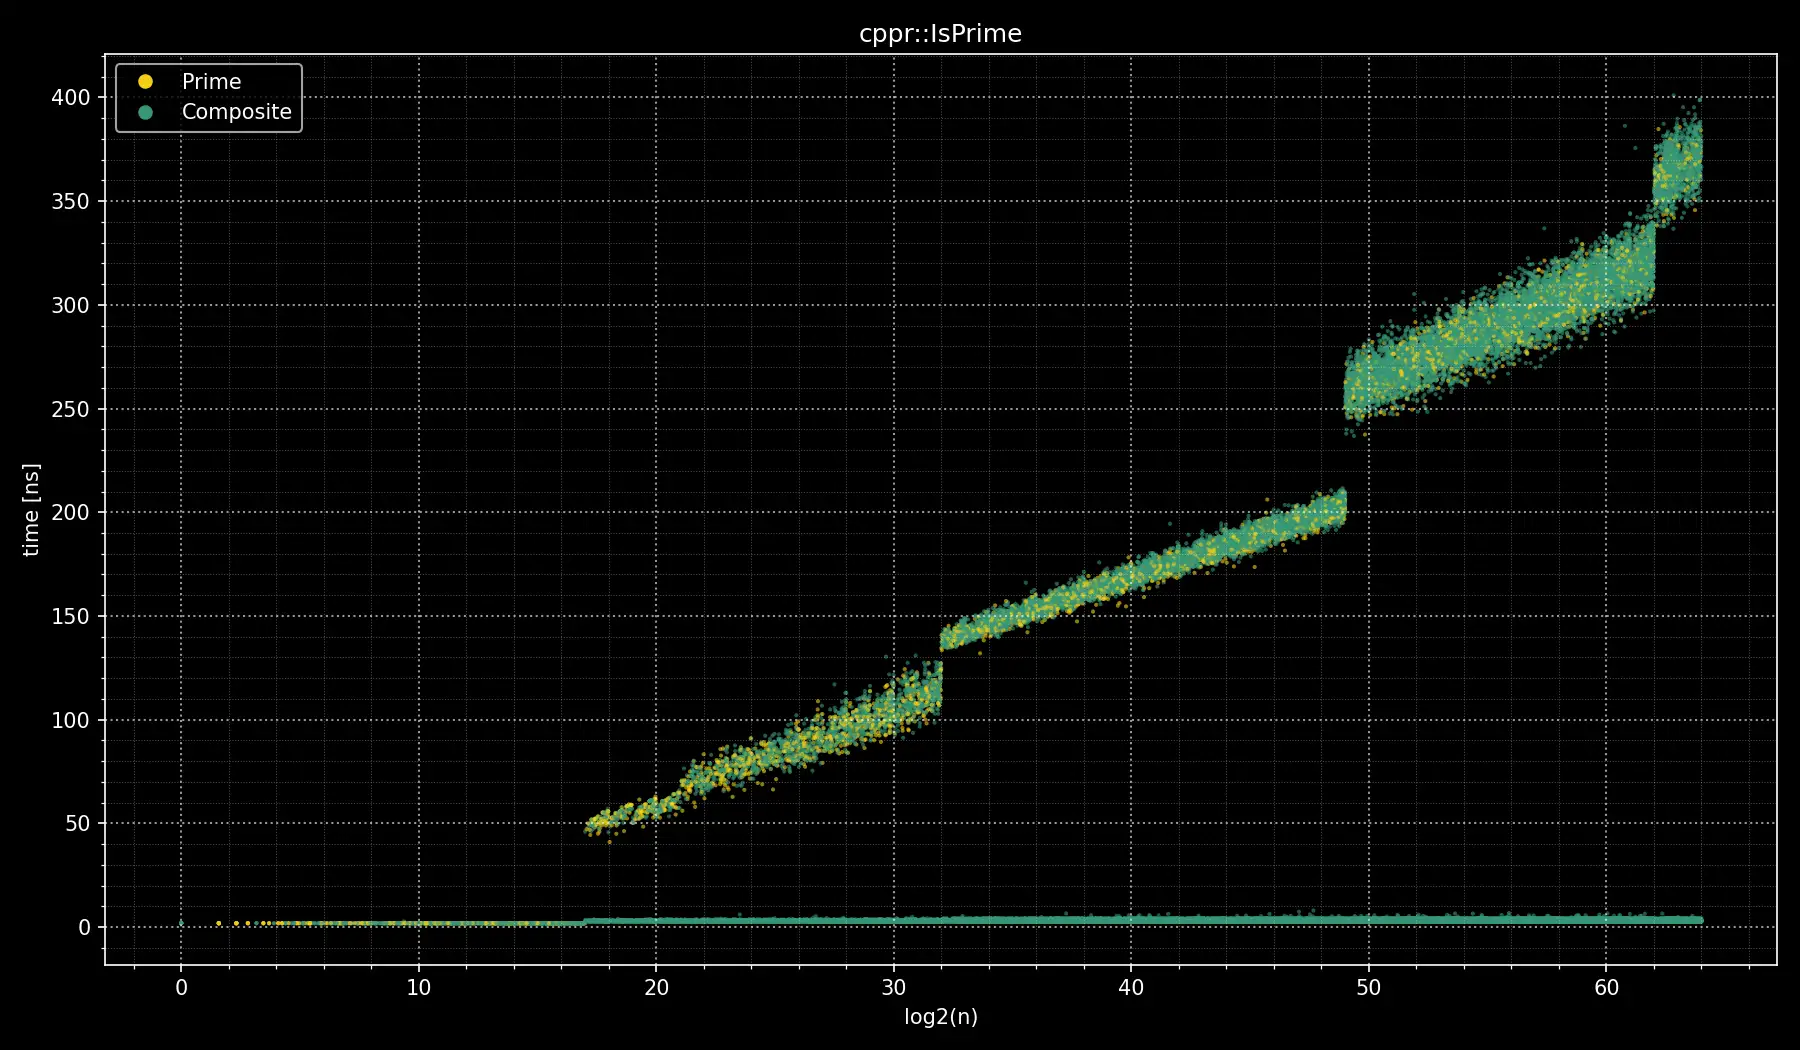
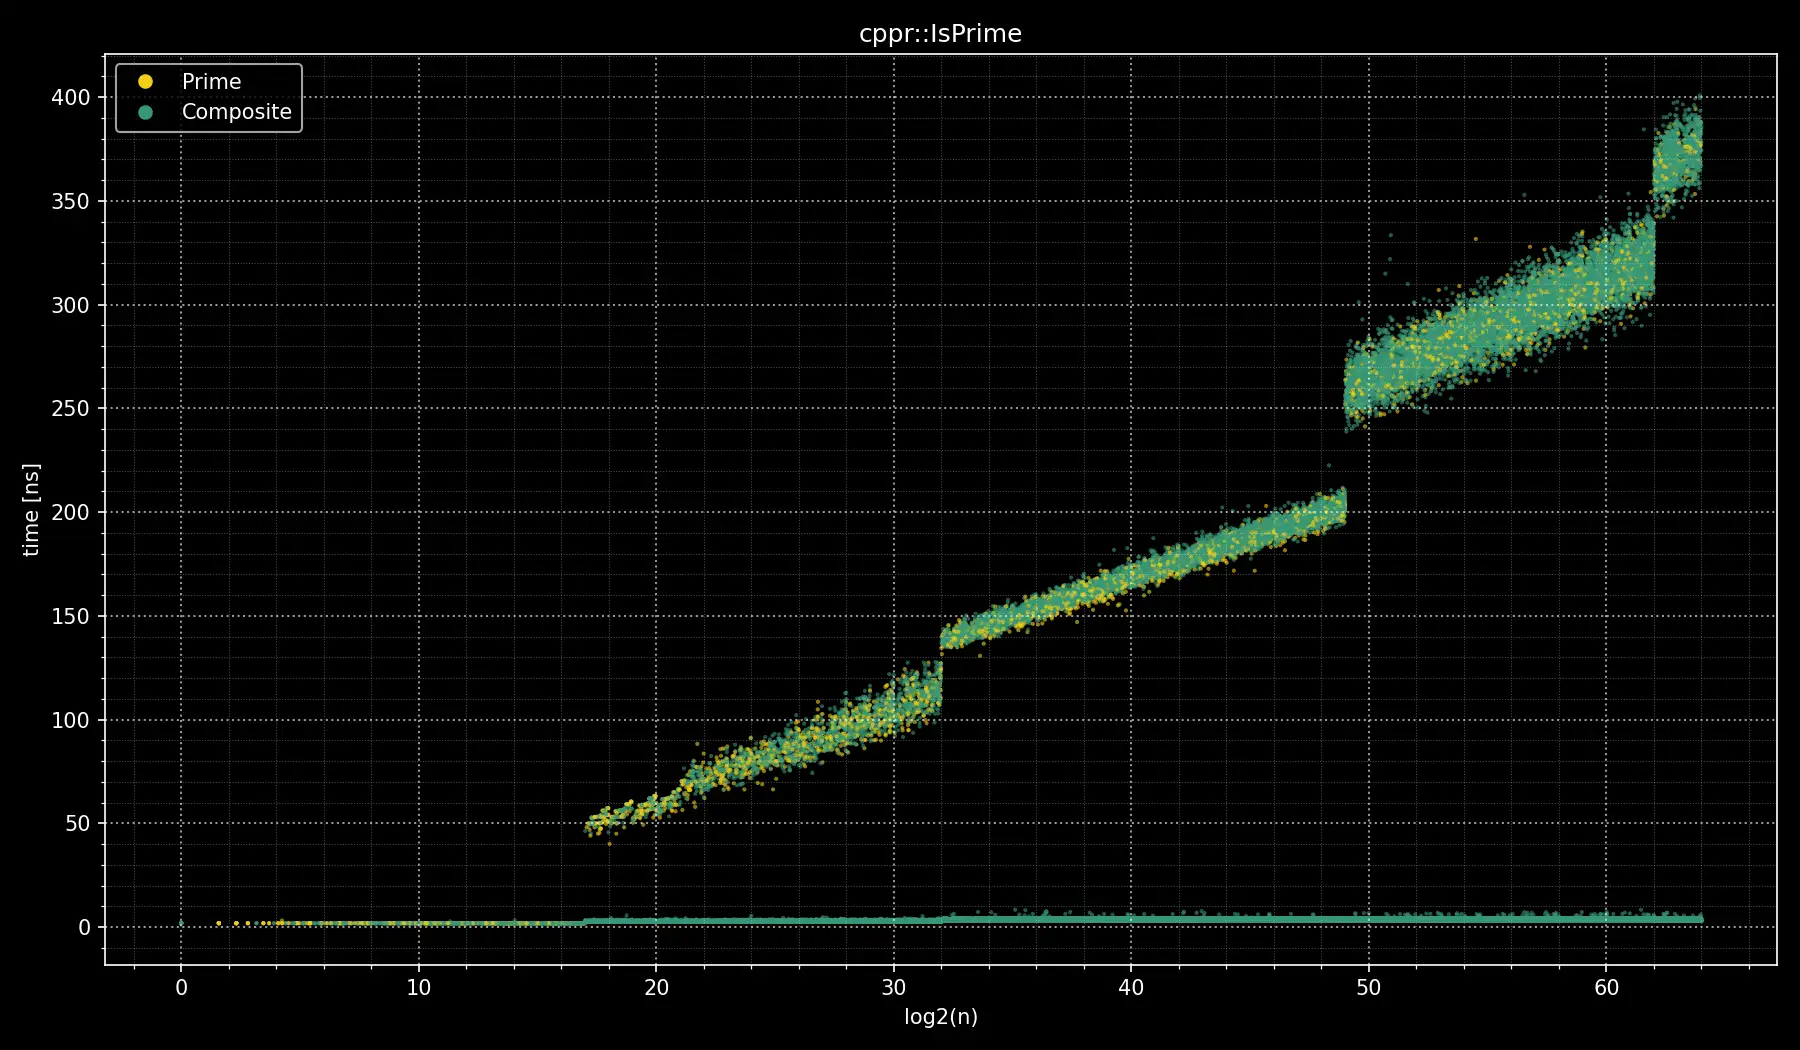
chore(bench): publish run 36736206774 ee572904996a7d12ae93e95133117158b0132455

diff --git a/benchmarks/latest/benchmark-Windows-clang-cl/bench_summary.md b/benchmarks/latest/benchmark-Windows-clang-cl/bench_summary.md
@@ -2,19 +2,19 @@
 
 ## Overall summary
 
-- IsPrime averages 163.71 ns on prime inputs and 54.06 ns on composite inputs.
-- IsPrimeNoTable averages 289.90 ns on prime inputs and 49.44 ns on composite inputs.
+- IsPrime averages 148.49 ns on prime inputs and 49.46 ns on composite inputs.
+- IsPrimeCompact averages 256.06 ns on prime inputs and 47.71 ns on composite inputs.
 
 ## Averages by 8-bit range (nanoseconds)
 
-| Bit range | IsPrime (prime) | IsPrimeNoTable (prime) | IsPrime (composite) | IsPrimeNoTable (composite) |
+| Bit range | IsPrime (prime) | IsPrimeCompact (prime) | IsPrime (composite) | IsPrimeCompact (composite) |
 |-----------|-----------------|------------------------|---------------------|----------------------------|
-| 1-8 | 3.12 | 3.00 | 3.00 | 3.01 |
-| 9-16 | 3.01 | 21.01 | 3.03 | 4.92 |
-| 17-24 | 63.19 | 69.69 | 16.01 | 17.44 |
-| 25-32 | 109.64 | 109.79 | 30.03 | 29.74 |
-| 33-40 | 187.17 | 280.92 | 58.91 | 74.96 |
-| 41-48 | 224.73 | 475.68 | 72.96 | 78.99 |
-| 49-56 | 321.53 | 601.46 | 107.39 | 86.27 |
-| 57-62 | 370.82 | 687.34 | 126.20 | 84.49 |
-| 63-64 | 396.42 | 824.96 | 134.91 | 100.93 |
+| 1-8 | 3.20 | 2.04 | 3.27 | 2.18 |
+| 9-16 | 3.25 | 20.42 | 3.20 | 4.30 |
+| 17-24 | 57.55 | 62.26 | 14.91 | 15.52 |
+| 25-32 | 99.37 | 99.21 | 27.60 | 26.66 |
+| 33-40 | 170.34 | 252.09 | 54.23 | 67.24 |
+| 41-48 | 204.80 | 423.84 | 67.05 | 70.33 |
+| 49-56 | 290.66 | 533.51 | 97.32 | 84.44 |
+| 57-62 | 333.67 | 599.10 | 114.13 | 96.09 |
+| 63-64 | 361.30 | 696.06 | 123.88 | 110.41 |

diff --git a/benchmarks/latest/benchmark-Linux-clang/bench_summary.md b/benchmarks/latest/benchmark-Linux-clang/bench_summary.md
@@ -2,19 +2,19 @@
 
 ## Overall summary
 
-- IsPrime averages 137.20 ns on prime inputs and 45.36 ns on composite inputs.
-- IsPrimeNoTable averages 248.66 ns on prime inputs and 42.52 ns on composite inputs.
+- IsPrime averages 137.56 ns on prime inputs and 45.57 ns on composite inputs.
+- IsPrimeCompact averages 241.08 ns on prime inputs and 45.39 ns on composite inputs.
 
 ## Averages by 8-bit range (nanoseconds)
 
-| Bit range | IsPrime (prime) | IsPrimeNoTable (prime) | IsPrime (composite) | IsPrimeNoTable (composite) |
+| Bit range | IsPrime (prime) | IsPrimeCompact (prime) | IsPrime (composite) | IsPrimeCompact (composite) |
 |-----------|-----------------|------------------------|---------------------|----------------------------|
-| 1-8 | 1.90 | 2.99 | 1.90 | 3.00 |
-| 9-16 | 1.90 | 21.36 | 1.90 | 5.14 |
-| 17-24 | 55.65 | 63.89 | 14.17 | 16.57 |
-| 25-32 | 96.63 | 97.39 | 26.66 | 27.05 |
-| 33-40 | 153.38 | 235.30 | 48.67 | 63.98 |
-| 41-48 | 183.74 | 390.31 | 59.99 | 64.94 |
-| 49-56 | 266.02 | 511.84 | 89.10 | 72.15 |
-| 57-62 | 306.88 | 600.38 | 104.76 | 73.09 |
-| 63-64 | 365.11 | 740.88 | 124.17 | 90.39 |
+| 1-8 | 1.91 | 2.29 | 1.90 | 2.29 |
+| 9-16 | 1.90 | 21.14 | 1.90 | 4.74 |
+| 17-24 | 56.08 | 66.65 | 14.18 | 16.83 |
+| 25-32 | 96.63 | 97.12 | 26.53 | 26.66 |
+| 33-40 | 153.01 | 235.10 | 48.86 | 63.34 |
+| 41-48 | 183.40 | 392.98 | 60.17 | 65.42 |
+| 49-56 | 267.13 | 497.25 | 89.62 | 78.46 |
+| 57-62 | 307.98 | 558.26 | 105.30 | 89.16 |
+| 63-64 | 369.91 | 670.16 | 126.07 | 111.08 |

diff --git a/benchmarks/latest/benchmark-Linux-gcc/bench_summary.md b/benchmarks/latest/benchmark-Linux-gcc/bench_summary.md
@@ -2,19 +2,19 @@
 
 ## Overall summary
 
-- IsPrime averages 137.21 ns on prime inputs and 45.45 ns on composite inputs.
-- IsPrimeNoTable averages 248.89 ns on prime inputs and 43.83 ns on composite inputs.
+- IsPrime averages 137.54 ns on prime inputs and 45.57 ns on composite inputs.
+- IsPrimeCompact averages 241.09 ns on prime inputs and 45.49 ns on composite inputs.
 
 ## Averages by 8-bit range (nanoseconds)
 
-| Bit range | IsPrime (prime) | IsPrimeNoTable (prime) | IsPrime (composite) | IsPrimeNoTable (composite) |
+| Bit range | IsPrime (prime) | IsPrimeCompact (prime) | IsPrime (composite) | IsPrimeCompact (composite) |
 |-----------|-----------------|------------------------|---------------------|----------------------------|
-| 1-8 | 1.90 | 4.10 | 1.92 | 4.14 |
-| 9-16 | 1.91 | 21.94 | 1.91 | 6.69 |
-| 17-24 | 55.64 | 63.94 | 14.26 | 17.97 |
-| 25-32 | 96.62 | 97.52 | 26.74 | 28.42 |
-| 33-40 | 153.37 | 235.31 | 48.80 | 65.27 |
-| 41-48 | 183.69 | 390.32 | 60.12 | 66.22 |
-| 49-56 | 266.14 | 511.82 | 89.24 | 73.40 |
-| 57-62 | 306.91 | 600.43 | 104.90 | 74.32 |
-| 63-64 | 365.13 | 740.87 | 124.29 | 91.61 |
+| 1-8 | 1.90 | 2.41 | 1.90 | 2.40 |
+| 9-16 | 1.90 | 21.20 | 1.90 | 4.86 |
+| 17-24 | 55.98 | 66.65 | 14.17 | 16.93 |
+| 25-32 | 96.68 | 97.12 | 26.54 | 26.76 |
+| 33-40 | 153.01 | 235.11 | 48.86 | 63.42 |
+| 41-48 | 183.41 | 392.92 | 60.17 | 65.51 |
+| 49-56 | 267.05 | 497.28 | 89.62 | 78.54 |
+| 57-62 | 307.98 | 558.16 | 105.31 | 89.24 |
+| 63-64 | 369.94 | 670.38 | 126.08 | 111.16 |

diff --git a/benchmarks/latest/benchmark-Windows-msvc/bench_summary.md b/benchmarks/latest/benchmark-Windows-msvc/bench_summary.md
@@ -2,19 +2,19 @@
 
 ## Overall summary
 
-- IsPrime averages 120.85 ns on prime inputs and 39.73 ns on composite inputs.
-- IsPrimeNoTable averages 234.53 ns on prime inputs and 41.59 ns on composite inputs.
+- IsPrime averages 104.68 ns on prime inputs and 33.59 ns on composite inputs.
+- IsPrimeCompact averages 176.38 ns on prime inputs and 32.32 ns on composite inputs.
 
 ## Averages by 8-bit range (nanoseconds)
 
-| Bit range | IsPrime (prime) | IsPrimeNoTable (prime) | IsPrime (composite) | IsPrimeNoTable (composite) |
+| Bit range | IsPrime (prime) | IsPrimeCompact (prime) | IsPrime (composite) | IsPrimeCompact (composite) |
 |-----------|-----------------|------------------------|---------------------|----------------------------|
-| 1-8 | 1.68 | 1.37 | 1.36 | 1.40 |
-| 9-16 | 1.68 | 17.86 | 1.40 | 4.02 |
-| 17-24 | 47.92 | 53.53 | 11.98 | 13.86 |
-| 25-32 | 84.84 | 85.17 | 23.28 | 23.58 |
-| 33-40 | 141.05 | 217.53 | 44.53 | 58.07 |
-| 41-48 | 169.53 | 368.15 | 55.16 | 59.05 |
-| 49-56 | 233.05 | 502.96 | 77.90 | 80.04 |
-| 57-62 | 267.94 | 595.36 | 91.19 | 86.19 |
-| 63-64 | 284.80 | 616.11 | 96.98 | 72.02 |
+| 1-8 | 1.02 | 1.02 | 1.00 | 1.01 |
+| 9-16 | 1.01 | 12.40 | 1.01 | 2.37 |
+| 17-24 | 45.09 | 47.08 | 10.69 | 11.14 |
+| 25-32 | 107.17 | 107.79 | 28.06 | 27.88 |
+| 33-40 | 114.87 | 163.56 | 35.74 | 42.53 |
+| 41-48 | 139.06 | 285.96 | 44.64 | 45.58 |
+| 49-56 | 192.01 | 359.18 | 63.64 | 55.42 |
+| 57-62 | 220.54 | 406.59 | 74.54 | 63.61 |
+| 63-64 | 235.37 | 428.67 | 79.55 | 68.49 |
